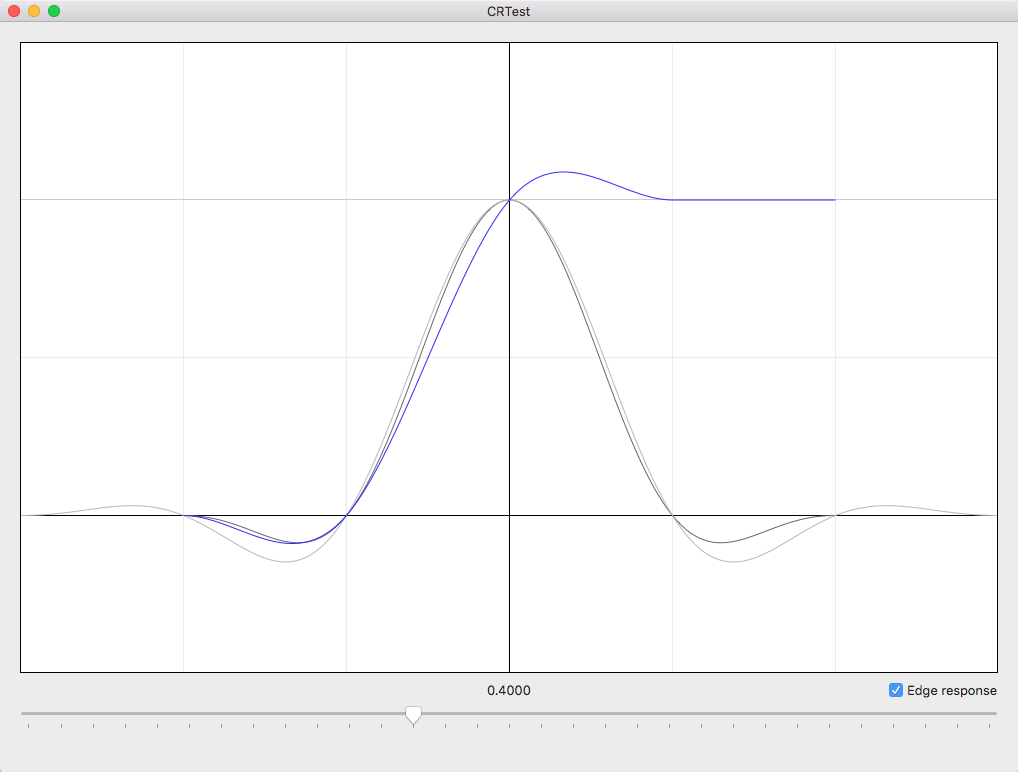
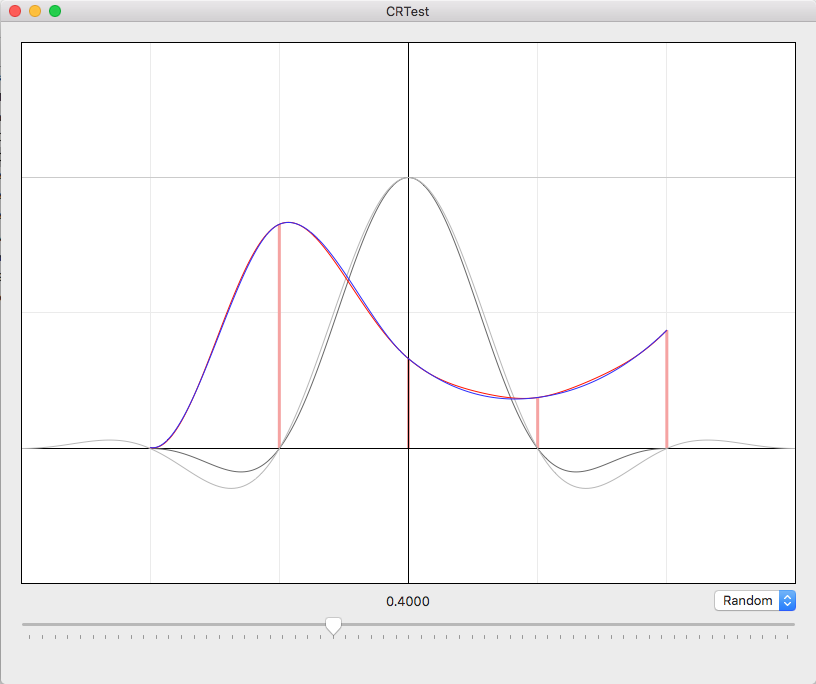
Added Lanczos interpolation for apples-to-apples comparison

diff --git a/CRTest/CRView.m b/CRTest/CRView.m
@@ -7,6 +7,7 @@
 //
 
 #import "CRView.h"
+#import <Accelerate/Accelerate.h>
 
 @interface CRView ()
 {
@@ -29,15 +30,33 @@ static double SRC[] = { 0.0, 0.0, 0.0, 1.0, 0.0, 0.0, 0.0, 0.0 };
 
 - (IBAction) didAdjustButton:(NSButton *)button
 {
-	double C = mButton.state;
-
+	int selectionIndex = [mButton.objectValue intValue];
+	
 	// switch between impulse and edge
+	SRC[0] = 0.0;
+	SRC[1] = 0.0;
+	SRC[2] = 0.0;
 	SRC[3] = 1.0;
-	SRC[4] = C;
-	SRC[5] = C;
-	SRC[6] = C;
-	SRC[7] = C;
+	SRC[4] = 0.0;
+	SRC[5] = 0.0;
+	SRC[6] = 0.0;
+	SRC[7] = 0.0;
 
+	if (selectionIndex == 1)
+	{
+		double V = 1.0;
+		SRC[4] = V;
+		SRC[5] = V;
+		SRC[6] = V;
+		SRC[7] = V;
+	}
+	else
+	if (selectionIndex == 2)
+	{
+		for (int n=0; n!=8; n++) \
+		{ SRC[n] = 1.0 * random()/RAND_MAX; }
+	}
+	
 	[self setNeedsDisplay:YES];
 }
 
@@ -72,10 +91,17 @@ static double SRC[] = { 0.0, 0.0, 0.0, 1.0, 0.0, 0.0, 0.0, 0.0 };
 	[HSB(0.0, 0.0, 0.75) set];
 	[self drawHorizontalLineAt:+1.0];
 	
+	//----- draw samples for the "random" selection
+	if ([mButton.objectValue intValue] == 2)
+	{
+		[HSB(0.0, 0.4, 0.95) set];
+		[self drawSamples];
+	}
+	
 	//----- draw axis
 	[[NSColor blackColor] set];
-	[self drawHorizontalLineAt:0.0];
 	[self drawVerticalLineAt:0.0];
+	[self drawHorizontalLineAt:0.0];
 
 	//----- draw curves
 	[[NSColor darkGrayColor] set];
@@ -84,19 +110,12 @@ static double SRC[] = { 0.0, 0.0, 0.0, 1.0, 0.0, 0.0, 0.0, 0.0 };
 	[[NSColor lightGrayColor] set];
 	[self drawSinc:3];
 	
-	[[NSColor blueColor] set];
-	[self drawCR1];
+	[[NSColor redColor] set];
+	[self drawLanczosInterpolation];
 
-/*
-	// CR2 should be equivalent to CR1
-	[[NSColor redColor] set];
-	[self drawDCR2];
-//*/
-/*
-	// DCR2 derivative of CR 
-	[[NSColor redColor] set];
-	[self drawDCR2];
-//*/
+	[[NSColor blueColor] set];
+//	[self drawCR1];
+	[self drawCR2];
 	
 	//----- draw frame
 	[[NSColor blackColor] set];
@@ -141,6 +160,24 @@ static double SRC[] = { 0.0, 0.0, 0.0, 1.0, 0.0, 0.0, 0.0, 0.0 };
 
 ////////////////////////////////////////////////////////////////////////////////
 
+- (void) drawSamples
+{
+	NSBezierPath *path = [NSBezierPath new];
+	[path setLineWidth:3.0];
+	
+	for (long n=1; n!=6; n++)
+	{
+		[path moveToPoint:(NSPoint){ n-3.0, 0.0 }];
+		[path lineToPoint:(NSPoint){ n-3.0, SRC[n] }];
+		[self drawPath:path];
+		[path removeAllPoints];
+	}
+	
+	path = nil;
+}
+
+////////////////////////////////////////////////////////////////////////////////
+
 - (void) drawPath:(NSBezierPath *)path
 {
 	NSRect B = self.bounds;
@@ -155,8 +192,10 @@ static double SRC[] = { 0.0, 0.0, 0.0, 1.0, 0.0, 0.0, 0.0, 0.0 };
 #pragma mark
 ////////////////////////////////////////////////////////////////////////////////
 
-static double sinc(double x, long N)
+static double sinc(double x, double N)
 {
+	if (x == 0.0) return 1.0;
+	
 	double w = sin(x*M_PI/N)/(x*M_PI/N);
 	double s = sin(x*M_PI)/(x*M_PI);
 	return w * s;
@@ -172,17 +211,14 @@ static double sinc(double x, long N)
 	long R = 0.5 * self.bounds.size.width / 3.0;
 	for (long n=-R; n<=R; n++)
 	{
-		if (n != 0)
-		{
-			double x = 1.0 * N * n / R;
-			double y = sinc(x, N);
+		double x = 1.0 * N * n / R;
+		double y = sinc(x, N);
 /*
-			double y1 = sinc(x-0.0000001, N);
-			double y2 = sinc(x+0.0000001, N);
-			y = (y2-y1)/0.0000002;
+		double y1 = sinc(x-0.0000001, N);
+		double y2 = sinc(x+0.0000001, N);
+		y = (y2-y1)/0.0000002;
 //*/
-			[path lineToPoint:(NSPoint){ x, y }];
-		}
+		[path lineToPoint:(NSPoint){ x, y }];
 	}
 
 	[self drawPath:path];
@@ -242,35 +278,49 @@ static NSBezierPath *NSBezierPathFromCR(double a, double x, double *Y)
 }
 
 ////////////////////////////////////////////////////////////////////////////////
-#pragma mark
-////////////////////////////////////////////////////////////////////////////////
-/*
-	BezierPN
-	--------
-	Compute Bezier value using polynomial coordinates
-	
-	note: while this has less multiplies than deCasteljau, modern architecture
-	may not like the dependencies and create bubbles.
-*/
 
-double BezierPN(double t, double P1, double C1, double C2, double P2)
+- (void) drawNodes
 {
-	double d = P1;
-	double c = 3*(C1-P1);
-	double b = 3*(C2-C1) - c;
-	double a = (P2-P1) - b - c;
+	double a = mSlider.doubleValue;
 
-	return ((a*t+b)*t+c)*t+d;
+	static const double X[] = { -2.0, -1.0, 0.0, 1.0, 2.0 };
+	for (int n=0; n!=4; n++)
+	{
+		double Y0 = SRC[n+0];
+		double Y1 = SRC[n+1];
+		double Y2 = SRC[n+2];
+
+		double d = a * (Y2 - Y0) / 2.0;
+		
+		NSPoint P1 = { X[n]-1.0/3.0, Y1 - d };
+		NSPoint P2 = { X[n]+1.0/3.0, Y1 + d };
+		
+		NSBezierPath *path = [NSBezierPath new];
+		[path moveToPoint:P1];
+		[path lineToPoint:P2];
+		[self drawPath:path];
+	}
 }
 
 ////////////////////////////////////////////////////////////////////////////////
+#pragma mark
+////////////////////////////////////////////////////////////////////////////////
 /*
-	BezierDC
-	--------
-	Compute Bezier value using de Casteljau algorithm
+	Bezier
+	------
+	Compute Bezier value using deCasteljau
+
+	polynomial version would be:
+	
+		double d = P1;
+		double c = 3*(C1-P1);
+		double b = 3*(C2-C1) - c;
+		double a = (P2-P1) - b - c;
+
+		return ((a*t+b)*t+c)*t+d;
 */
 
-double BezierDC(double t, double P1, double C1, double C2, double P2)
+double Bezier(double t, double P1, double C1, double C2, double P2)
 {
 	P1 += t * (C1 - P1);
 	C1 += t * (C2 - C1);
@@ -286,34 +336,20 @@ double BezierDC(double t, double P1, double C1, double C2, double P2)
 
 ////////////////////////////////////////////////////////////////////////////////
 
-double Bezier(double t, double P1, double C1, double C2, double P2)
-{
-/*
-	return BezierPN(t, P1, C1, C2, P2);
-/*/
-	return BezierDC(t, P1, C1, C2, P2);
-//*/
-}
-
-////////////////////////////////////////////////////////////////////////////////
-#pragma mark
-////////////////////////////////////////////////////////////////////////////////
-
-static double CRCompute
-(double a, double x, double Y0, double Y1, double Y2, double Y3)
-{
-	double d1 = a * (Y2 - Y0) / 2.0;
-	double d2 = a * (Y3 - Y1) / 2.0;
-	return Bezier(x, Y1, Y1+d1, Y2-d2, Y2);
-}
-
-////////////////////////////////////////////////////////////////////////////////
-
-static double CRComputePtr(double a, double x, double *Y)
+static double CRCompute(double a, double x, double *Y)
 {
 	Y += (int)x;
 	x -= trunc(x);
-	return CRCompute(a, x, Y[0], Y[1], Y[2], Y[3]);
+	
+	double Y0 = Y[0];
+	double Y1 = Y[1];
+	double Y2 = Y[2];
+	double Y3 = Y[3];
+	
+	double d1 = a * (Y2 - Y0) / 2.0;
+	double d2 = a * (Y3 - Y1) / 2.0;
+
+	return Bezier(x, Y1, Y1+d1, Y2-d2, Y2);
 }
 
 ////////////////////////////////////////////////////////////////////////////////
@@ -323,49 +359,82 @@ static double CRComputePtr(double a, double x, double *Y)
 	double a = mSlider.doubleValue;
 	
 	NSBezierPath *path = [NSBezierPath bezierPath];
-	[path moveToPoint:(NSPoint){ -2.0, 0.0 }];
-	
-	long R = 0.5 * self.bounds.size.width / 3.0;
-	for (long n=-R; n<=R; n++)
-	{
-		if (n != 0)
-		{
-			double x = 2.0 * n / R;
-			double y = CRComputePtr(a, x + 2.0, SRC);
 
-			[path lineToPoint:(NSPoint){ x, y }];
-		}
+	double x = 0.0;
+	double y = CRCompute(a, x, SRC);
+	[path moveToPoint:(NSPoint){ x-2.0, y }];
+	
+	long R = self.bounds.size.width / 3.0;
+	for (long n=1; n<=R; n++)
+	{
+		x = 4.0 * n / R;
+		y = CRCompute(a, x, SRC);
+		[path lineToPoint:(NSPoint){ x-2.0, y }];
 	}
 
 	[self drawPath:path];
 }
 
 ////////////////////////////////////////////////////////////////////////////////
+#pragma mark
+////////////////////////////////////////////////////////////////////////////////
 
-- (void) drawDCR2
+static double interpolateWithKernel(double (*kernelFunction)(double, double), double a, double x, double *Y)
+{
+	Y += (int)x;
+	x -= trunc(x);
+
+	double W0 = kernelFunction(-1.0-x, a);
+	double W1 = kernelFunction(+0.0-x, a);
+	double W2 = kernelFunction(+1.0-x, a);
+	double W3 = kernelFunction(+2.0-x, a);
+	
+	double y =
+	W0 * Y[0] +
+	W1 * Y[1] +
+	W2 * Y[2] +
+	W3 * Y[3];
+	
+	return y / (W0 + W1 + W2 + W3);
+}
+
+////////////////////////////////////////////////////////////////////////////////
+
+- (void) drawInterpolation:(double(*)(double, double))kernelFunction
 {
 	double a = mSlider.doubleValue;
-	
-	NSBezierPath *path = [NSBezierPath bezierPath];
-	[path moveToPoint:(NSPoint){ -2.0, 0.0 }];
-	
-	long R = 0.5 * self.bounds.size.width / 3.0;
-	for (long n=-R; n<=R; n++)
-	{
-		if (n != 0)
-		{
-			double x = 2.0 * n / R;
-			double x1 = x-0.00001;
-			double x2 = x+0.00001;
-			double y1 = CRComputePtr(a, x1 + 2.0, SRC);
-			double y2 = CRComputePtr(a, x2 + 2.0, SRC);
-			double y = (y2-y1)/(x2-x1);
+	[self drawInterpolation:kernelFunction withParameter:a];
+}
 
-			[path lineToPoint:(NSPoint){ x, y }];
-		}
+////////////////////////////////////////////////////////////////////////////////
+
+- (void) drawInterpolation:(double(*)(double, double))kernelFunction withParameter:(double)a
+{
+	NSBezierPath *path = [NSBezierPath bezierPath];
+	
+	double x = 0.0;
+	double y = interpolateWithKernel(kernelFunction, a, x, SRC);
+	
+	[path moveToPoint:(NSPoint){ x-2.0, y }];
+	
+	long R = self.bounds.size.width / 3.0;
+	for (long n=1; n<=R; n++)
+	{
+		x = 4.0 * n / R;
+		y = interpolateWithKernel(kernelFunction, a, x, SRC);
+
+		[path lineToPoint:(NSPoint){ x-2.0, y }];
 	}
 
 	[self drawPath:path];
+	
+}
+
+////////////////////////////////////////////////////////////////////////////////
+
+- (void) drawLanczosInterpolation
+{
+	[self drawInterpolation:sinc withParameter:2.0];
 }
 
 ////////////////////////////////////////////////////////////////////////////////
